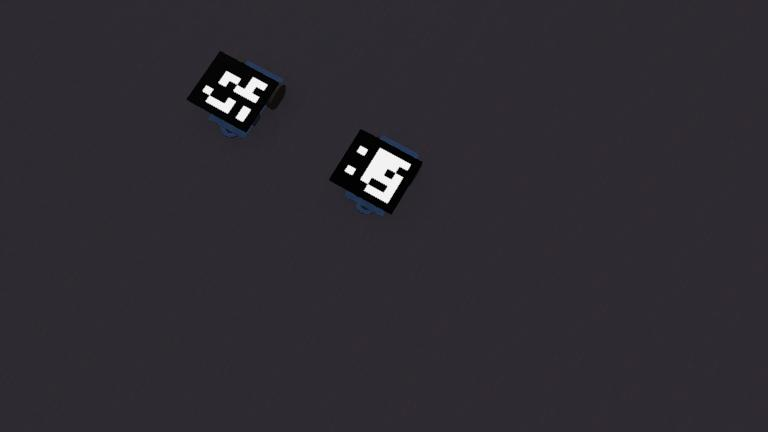
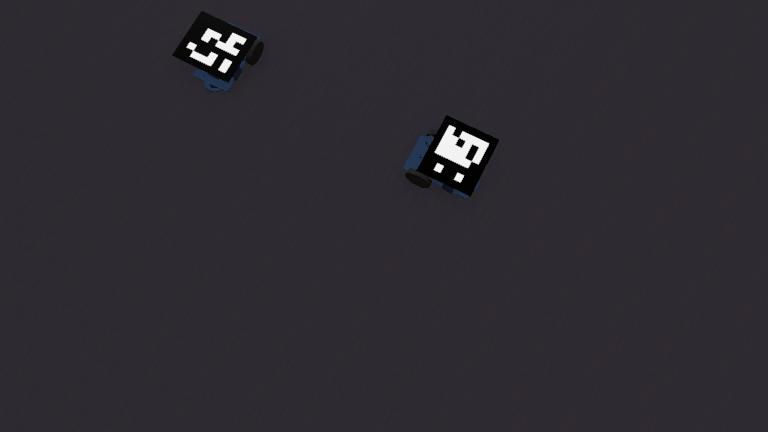
updated obstacle avoidance

Changed region(s): [[0.4062, 0.2708, 0.6562, 0.5116], [0.2188, 0.0301, 0.375, 0.331]]

diff --git a/ASWebotsV2/controllers/my_controller123/my_controller123.py b/ASWebotsV2/controllers/my_controller123/my_controller123.py
@@ -20,7 +20,7 @@ ldr = robot.getDevice('light sensor')
 # sensor readings
 ldr_readings = []
 distance_readings = []
-radius = 50
+radius = 80
 robot_data = {}
 
 # Set initial motor velocities
@@ -201,13 +201,10 @@ def update_position_and_orientation(position, orientation, forces):
     print(f"Updated position: {position}, orientation: {orientation}, speed: {speed}")
     return position, orientation, speed
 
-def calculate_distance(coord1, coord2):
-    """Calculate the Euclidean distance between two points."""
-    return math.sqrt((coord1[0] - coord2[0])**2 + (coord1[1] - coord2[1])**2)
 
 def calculate_intersection_points(coord1, coord2, radius):
     """Calculate the intersection points of two circles."""
-    d = calculate_distance(coord1, coord2)
+    d = math.sqrt((coord1[0] - coord2[0])**2 + (coord1[1] - coord2[1])**2)
     
     # No intersection if distance is greater than 2 times the radius or zero
     if d > 2 * radius or d == 0:
@@ -225,25 +222,30 @@ def calculate_intersection_points(coord1, coord2, radius):
     x4 = x2 - h * (coord2[1] - coord1[1]) / d
     y4 = y2 + h * (coord2[0] - coord1[0]) / d
     
-    return (x3, y3), (x4, y4)
+    midpoint_x = (x3 + x4) / 2
+    midpoint_y = (y3 + y4) / 2
+    return (midpoint_x, midpoint_y)
 
 
-def check_intersections(target_robot_id, radius):
+def check_intersections(current_position, radius):
+    '''
+    get the points of intersection of the radius 
+    '''
     global robot_data
+    global client_id
     intersections = []
-    target_position = robot_data[target_robot_id]['position']
     for robot_id, info in robot_data.items():
-        if robot_id == target_robot_id:
+        if robot_id == client_id:
             continue
         other_position = info['position']
-        points = calculate_intersection_points(target_position, other_position, radius)
+        points = calculate_intersection_points(current_position, other_position, radius)
         if points:
-            intersections.append((robot_id, points))
+            intersections.append(points)
     return intersections
 
-def check_border_intersection(position, radius, width, height):
+def check_border_intersection(current_position, radius, width, height):
     """Check if a circle intersects with the borders of the image."""
-    x, y = position
+    x, y = current_position
     intersects = []
     
     if x - radius < 0:
@@ -257,6 +259,60 @@ def check_border_intersection(position, radius, width, height):
     
     return intersects
 
+def avoid_collisions(current_position, current_angle, intersections, border_intersections, radius, width, height):
+    global robot_data
+    print("Avoiding")
+    # handle borders
+    for border in border_intersections:
+        if border == 'left':
+            #rechts sturen
+            print("avoid border left to the right")
+            SpinRight(1)
+            return
+        elif border == 'right':
+            # links sturen
+            print("avoid border right to the left")
+            SpinLeft(1)
+            return
+        elif border == 'top':
+            # random links/rechts
+            print("avoid border top to the right")
+            SpinRight(1)
+            return
+        elif border == 'bottom':
+            # vooruit
+            print("avoid border back by forward")
+            MoveForward(1)
+            return
+    
+    # handle robot intersections
+    for point in intersections:
+        angle = calculate_relative_angle(current_position, current_angle, point)
+        print(angle)
+        if angle > 0 and angle <= 90:
+            print("avoid to the left")
+            SpinLeft(1)
+            return
+        elif angle > 90 and angle <= 270:
+            #vooruit
+            print("avoid forward")
+            MoveForward(1)
+            return
+        elif angle > 270 and angle <= 360:
+            print("avoid to the the right")
+            SpinRight(1)
+            return
+
+def calculate_relative_angle(current_position, current_angle, point):
+    """Calculate the relative angle from the robot's perspective to a point."""
+    dx = point[0] - current_position[0]
+    dy = point[1] - current_position[1]
+    angle_to_point = math.atan2(dy, dx) * 180 / math.pi  # Convert radians to degrees
+    
+    # Normalize the angle to the range [0, 360]
+    relative_angle = (angle_to_point - current_angle) % 360
+    return relative_angle
+
 def pathing_light():
     # radius for colission
     # visual wall for colision
@@ -269,17 +325,23 @@ def pathing_light():
     # value ldr hoog genoeg, distance laag genoeg: trigger iets
 
     global robot_data
-    intersections = check_intersections(client_id, radius)
-    border_intersections = check_border_intersection(robot_data[client_id]['position'], radius, 1280, 720)
-    # check available directions and steer in one of them 
-
+    global client_id
     
-            
-            
-         
-
-    pass
-
+    try:
+        current_position = robot_data[client_id]['position']
+        current_angle = robot_data[client_id]['angle']
+    except KeyError:
+        print(F"No key with that name: {client_id}")
+        return
+    intersections = check_intersections(current_position, radius)
+    border_intersections = check_border_intersection(current_position, radius, 1280, 720)
+    # check available directions and steer in one of them 
+    if intersections or border_intersections:
+        avoid_collisions(current_position, current_angle, intersections, border_intersections, radius, 1200, 600)
+    else:
+        MoveForward(1)
+        #SpinTop()
+        #highest_light_index = ldr_readings.index(max(ldr_readings))
 
 
 def on_message(client, userdata, msg):
@@ -321,6 +383,7 @@ def on_message(client, userdata, msg):
             
             print("Updated robot data:", robot_data)
             
+            pathing_light()
 
             
         except json.JSONDecodeError:

diff --git a/Server/MQTTConnect.py b/Server/MQTTConnect.py
@@ -20,7 +20,7 @@ def start_camera():
     Waits 5 seconds to give the streams some time to start up.
     '''
     global detector
-    detector = MarkerDetector(cameraSource1='http://localhost:5005/video_feed', camType1=2, enableCam2=False, cameraSource2=0, camType2=2, debug=False)
+    detector = MarkerDetector(cameraSource1='http://localhost:5005/video_feed', camType1=2, enableCam2=False, cameraSource2=0, camType2=2, debug=True)
     time.sleep(5)
 
 def on_connect(client, userdata, flags, rc):
@@ -113,6 +113,7 @@ def setup_bots(client, threshold=10):
     print("Bots matched:", bots_matched)
 
 def get_bot_positions(client):
+    global detector
     '''
     get bot position and publish them
     '''
